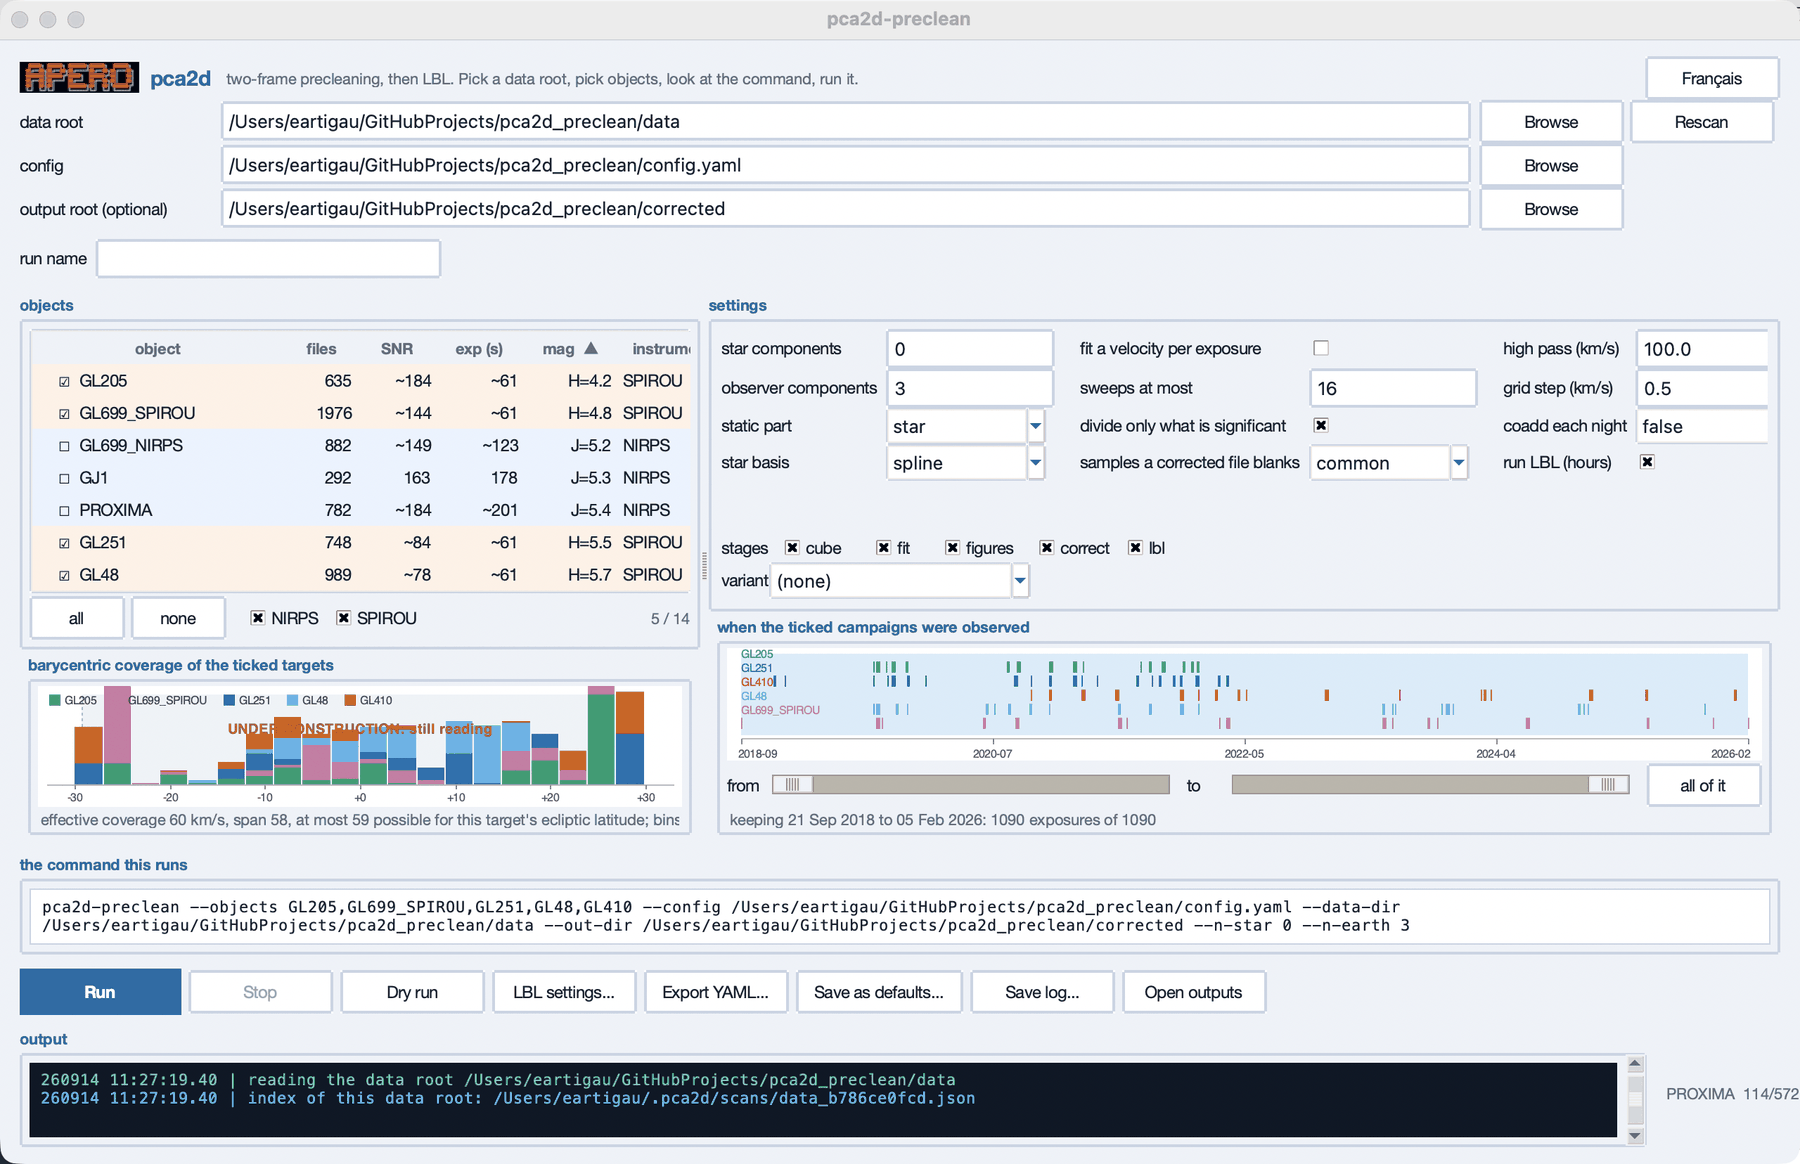
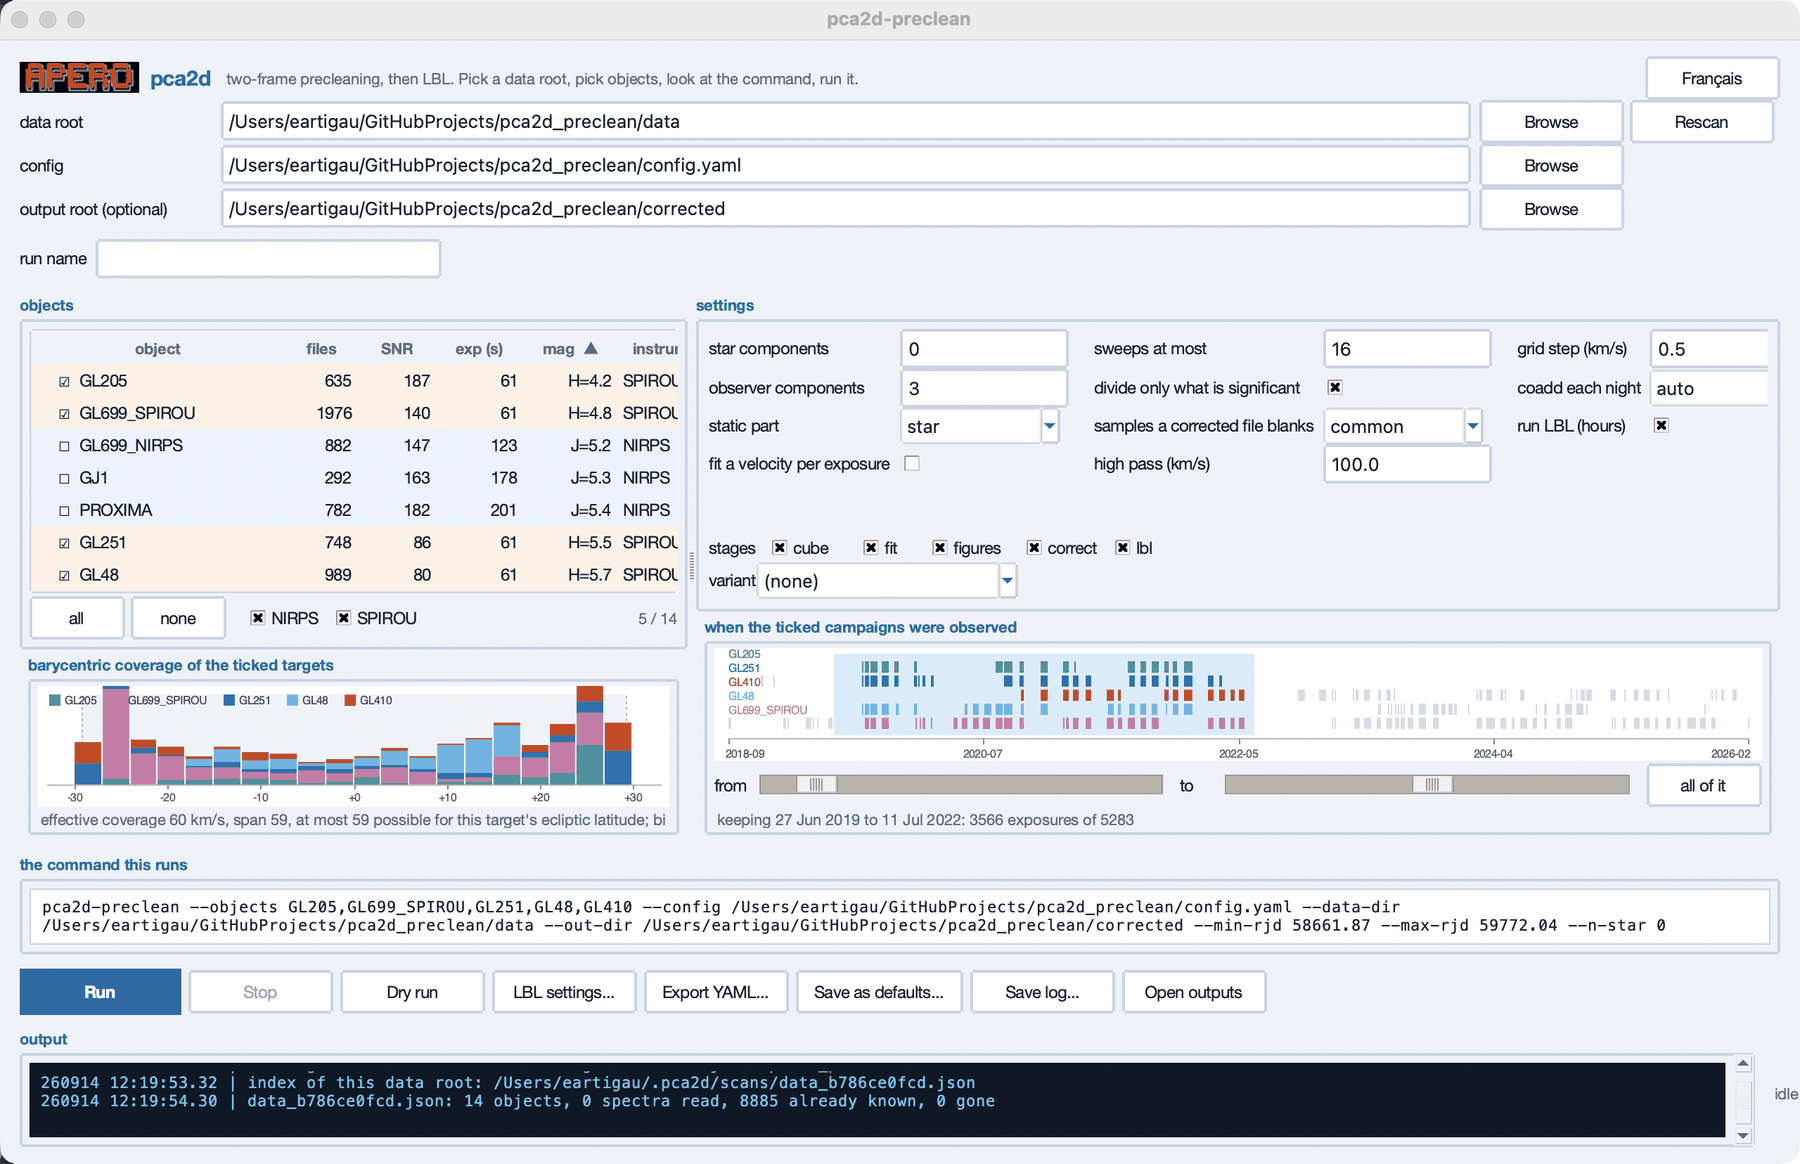
a finished scan left "still reading" on a finished histogram
The coverage panel and the timeline are drawn from what has been READ, and
nothing redrew them when a scan ended: only a tick changing or the window being
resized did. So the panel a twenty-minute run is decided on kept the bars of
part of the campaign, and the banner that says it is still reading, on an index
that was complete. Seen here on 8885 spectra, all of them read.

They now follow the scan: redrawn when it ends, and when a ticked campaign is
finished mid-scan, so the bars grow campaign by campaign. Not every ten
spectra, and not for a campaign nobody ticked, which is in neither panel. Two
tests in test_gui pin both halves.

The page gets the screenshot that shows: no banner, the index complete, and the
date window in the command as --min-rjd/--max-rjd.

diff --git a/docs/index.html b/docs/index.html
@@ -108,10 +108,13 @@
       <figure class="wide">
         <img src="figures/gui_window.png" alt="The pca2d-preclean window: data roots, the target list, the settings, the barycentric coverage, the campaign timeline, the command and the log" />
         <figcaption>
-          Five SPIRou campaigns ticked, the settings at the nominal, and the
-          command that would run them at the bottom. The coverage panel says
-          <em>still reading</em> because the index of that data root was not
-          finished: a panel that is not final says so rather than looking it.
+          Five SPIRou campaigns ticked and the settings at the nominal. The
+          coverage panel says this selection covers 60&nbsp;km/s of barycentric
+          velocity, spanning 59 of the 59 its ecliptic latitude allows, which is
+          the case the method is built for. A date window is kept on part of the
+          baseline, so the marks outside it are greyed and the command at the
+          bottom carries <code>--min-rjd</code> and <code>--max-rjd</code>: that
+          is how a campaign is cut into seasons.
         </figcaption>
       </figure>
 

diff --git a/tests/test_gui.py b/tests/test_gui.py
@@ -337,3 +337,53 @@ def test_the_command_line_names_a_run_the_same_way_the_window_does():
     config = {"output": {"directory": "outputs"}, "lbl": {"suffix": "_P"}}
     args = types.SimpleNamespace(name="../../etc", min_rjd=None, max_rjd=None)
     assert "/" not in name_run(config, args)
+
+
+def test_a_finished_scan_redraws_the_panels_it_filled():
+    """The coverage histogram and the timeline are drawn from what has been
+    READ. Nothing redrew them when a scan ended, so the panel a twenty-minute
+    run is decided on kept the bars of part of the campaign, and the banner
+    that says it is still reading, until a tick changed or the window was
+    resized. Seen on a complete index: 8885 spectra read, "UNDER CONSTRUCTION"
+    still on the panel."""
+    from pca2d.gui import App
+
+    window = App.__new__(App)
+    drawn = []
+    window.scanning = True
+    window._fill = lambda rows: None
+    window._state = lambda: None
+    window._say = lambda *a, **k: None
+    window._draw_berv = lambda: drawn.append("berv")
+    window._draw_time = lambda: drawn.append("time")
+    index = {"version": 1, "objects": {"GL205": {"files": {}}}}
+    window._scanned("root", index, {"read": 0, "kept": 3, "gone": 0}, "i.json")
+    assert window.scanning is False
+    assert drawn == ["berv", "time"], "both panels, once the scan is over"
+
+
+def test_a_campaign_finished_mid_scan_redraws_them_only_if_it_is_shown():
+    """The bars grow campaign by campaign, and a campaign nobody ticked is in
+    neither panel: redrawing for it, every ten spectra, would be hundreds of
+    redraws of two canvases for nothing."""
+    from pca2d.gui import App
+
+    window = App.__new__(App)
+    drawn = []
+    window.index = {"version": 1, "objects": {"GL205": {"files": {}}}}
+    window.rows = {}
+    window.names = {}
+    window._values = lambda row, approximate=False: ()
+    window._draw_berv = lambda: drawn.append("berv")
+    window._draw_time = lambda: drawn.append("time")
+
+    window.picked = lambda: ["GL205"]
+    window._one("GL205", 300, 635)               # still reading it
+    assert drawn == [], "a partial campaign is redrawn by the next one, not now"
+    window._one("GL205", 635, 635)               # done
+    assert drawn == ["berv", "time"]
+
+    drawn.clear()
+    window.picked = lambda: []                   # ticked by nobody
+    window._one("GL205", 635, 635)
+    assert drawn == [], "not in either panel, so not redrawn for it"

diff --git a/pca2d/gui.py b/pca2d/gui.py
@@ -2147,7 +2147,15 @@ class App:
         for item, shown in self.names.items():
             if shown == name:
                 self.tree.item(item, values=self._values(row, known < total))
-                return
+                break
+        # The coverage panel and the timeline are drawn from what has been
+        # READ, so a campaign that has just been finished changes both of them,
+        # and the banner saying they are partial has to go when it stops being
+        # true. Only when the campaign is done and it is ticked: every ten
+        # spectra would be a redraw of both panels a few hundred times.
+        if known >= total and name in self.picked():
+            self._draw_berv()
+            self._draw_time()
 
     def _scan(self, root):
         """Read what changed, off the main thread, touching no widget.
@@ -2191,6 +2199,11 @@ class App:
         self.index = index
         rows = scan.summaries(index)
         self._fill(rows)
+        # the scan is over, so both panels are final. Nothing else redraws them
+        # until a tick changes or the window is resized, and "UNDER
+        # CONSTRUCTION: still reading" sat on a finished histogram until then
+        self._draw_berv()
+        self._draw_time()
         self._state()
         if not rows:
             self._say("log_scan_none", root, level="warn")
